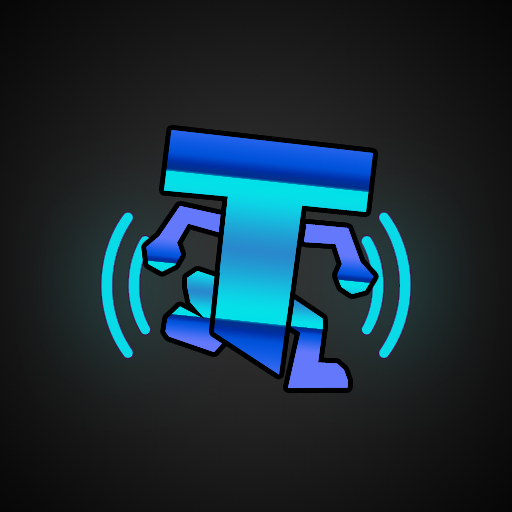
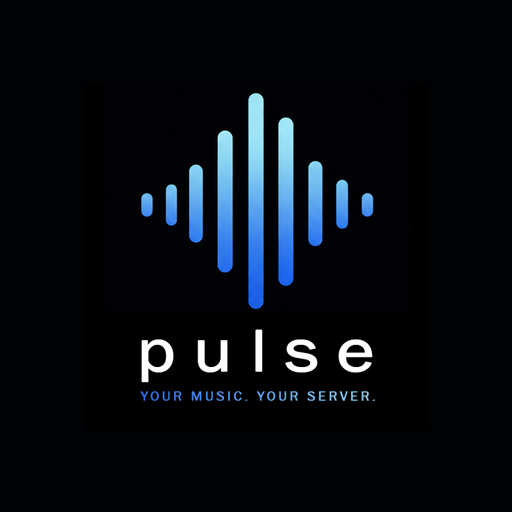
skip audiobooks for rated items

diff --git a/Pulse/DataStorage/PDSAnalytics.cs b/Pulse/DataStorage/PDSAnalytics.cs
@@ -54,6 +54,10 @@ namespace Pulse.DataStorage
 			{
 				case eAnalyticType.Track:
 					{
+						//Audiobook chapters don't get rated ever
+						if (ItemID.StartsWith("ch"))
+							return 0;
+
 						TrackData track = pulseData.GetTrack(ItemID);
 						if (track == null)
 						{
@@ -85,6 +89,11 @@ namespace Pulse.DataStorage
 					{
 						foreach (AnaliticUserItem track in tracks)
 						{
+							if (track == null)
+							{
+								Log.Error("Bad track in album ranking");
+								continue;
+							}
 							score += track.GetScore(pulseData, analyticsData);
 						}
 						score /= tracks.Count;
@@ -112,6 +121,11 @@ namespace Pulse.DataStorage
 					{
 						foreach (AnaliticUserItem track in artistTracks)
 						{
+							if (track == null)
+							{
+								Log.Error("Bad track in artist ranking");
+								continue;
+							}
 							score += track.GetScore(pulseData, analyticsData);
 						}
 						score /= artistTracks.Count;
@@ -130,6 +144,11 @@ namespace Pulse.DataStorage
 					{
 						foreach (AnaliticUserItem track in playlistTracks)
 						{
+							if (track == null)
+							{
+								Log.Error("Bad track in playlist ranking");
+								continue;
+							}
 							score += track.GetScore(pulseData, analyticsData);
 						}
 						score /= playlistTracks.Count;

diff --git a/Pulse/PulseService.cs b/Pulse/PulseService.cs
@@ -393,6 +393,11 @@ namespace Pulse
 					continue;
 
 				string itemId = items[i].ItemID;
+
+				//skip audiobooks they are not ranked
+				if (string.IsNullOrEmpty(itemId) || itemId.StartsWith("ch"))
+					continue;
+
 				float score = items[i].GetScore(m_pulseData, m_analyticsData);
 
 				PulseMusicObject musicItem = null;